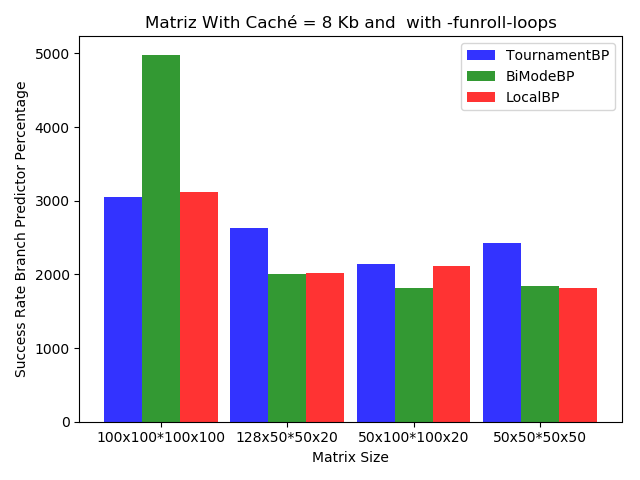
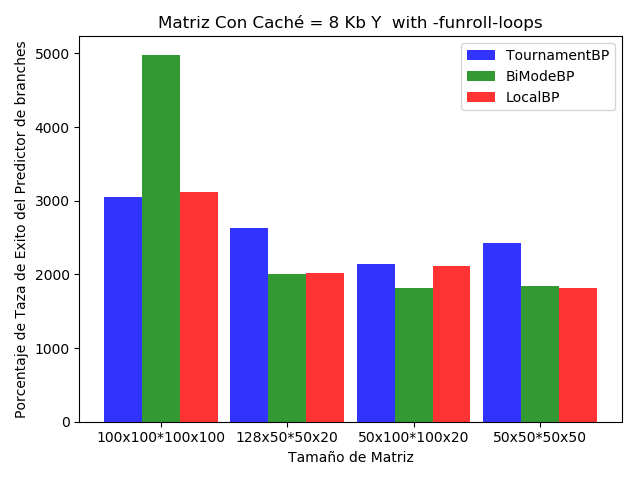
All my graphics added

Changed region(s): [[0.0, 0.0938, 0.0625, 0.875], [0.2188, 0.0312, 0.875, 0.0625], [0.4375, 0.9375, 0.6562, 0.9688]]

diff --git a/gem5_analyser.py b/gem5_analyser.py
@@ -8,7 +8,8 @@ import numpy as np
 rootdir = 'output_final' # estas son 100x100, 50x50, 50x100*100x20, 128x50*50x20.
 allowed_stats = ['sim_ticks', 'system.cpu.ipc',
                     'system.cpu.branchPred.condPredicted', 
-                    'system.cpu.branchPred.condIncorrect']
+                    'system.cpu.branchPred.condIncorrect',
+                    'system.mem_ctrls.pageHitRate']
 MATRIX_BASELINE = [128, 50, 20]
 BP_BASELINE = 'TournamentBP'
 CACHE_SIZE_BASELINE = 8192
@@ -126,9 +127,9 @@ def plotBranchMiss(dataset, LOOP_UNROLLING, I, J, K, file):
                     color='r',
                     label='LocalBP')
 
-    loop = ' with -funroll-loops' if LOOP_UNROLLING else ' no optimization'
-    plt.xlabel('Cache Size(Kb)')
-    plt.ylabel('Success Rate Branch Predictor Percentage')
+    loop = ' con -funroll-loops' if LOOP_UNROLLING else ' no optimization'
+    plt.xlabel('Tamaño Caché (Kb)')
+    plt.ylabel('Porcentaje de Taza de Exito del Predictor de branches')
     plt.title('Matriz '+str(I)+'x'+str(J)+'*'+str(J)+'x'+str(K)+ loop)
     plt.xticks(index + bar_width, cachesizes)
     plt.legend()
@@ -170,15 +171,188 @@ def plotBranchMissMatrix(dataset, CACHE_SIZE, LOOP_UNROLLING, file):
                     label='LocalBP')
 
     loop = ' with -funroll-loops' if LOOP_UNROLLING else ' no optimization'
-    plt.xlabel('Matrix Size')
-    plt.ylabel('Success Rate Branch Predictor Percentage')
-    plt.title('Matriz '+ 'With Caché = 8 Kb'+ ' and '+ loop)
+    plt.xlabel('Tamaño de Matriz')
+    plt.ylabel('Porcentaje de Taza de Exito del Predictor de branches')
+    plt.title('Matriz '+ 'Con Caché = 8 Kb'+ ' Y '+ loop)
     plt.xticks(index + bar_width, matrixsizes)
     plt.legend()
     
     plt.tight_layout()
     plt.savefig(file)
 
+def plotCacheHit(dataset, LOOP_UNROLLING, I, J, K, file):
+    # data to plot
+    miss_rate = {'LocalBP':{},'BiModeBP':{},'TournamentBP':{}}
+    miss_rate_list = {'LocalBP':[],'BiModeBP':[],'TournamentBP':[]}
+    cachesizes = []
+    #Populate Data
+    for data in dataset:
+        if (data['M_I'] == I and data['M_J'] == J and data['M_K'] == K and data['LOOP_UNROLLING'] == LOOP_UNROLLING):
+            #miss = int(data['stats']['system.cpu.branchPred.condPredicted'])/int(data['stats']['system.cpu.branchPred.condIncorrect']) * 100
+            miss = float(data['stats']['system.mem_ctrls.pageHitRate'])
+            miss_rate[data['BP']][float(data['CacheSize'])/1024] = miss
+    cachesizes, miss_rate_list = dictToList (miss_rate, miss_rate_list)
+    # create plot
+    fig, ax = plt.subplots()
+    index = np.arange(len(cachesizes))
+    bar_width = 0.3
+    opacity = 0.8
+    
+    rects1 = plt.bar(index, miss_rate_list['TournamentBP'], bar_width,
+                    alpha=opacity,
+                    color='b',
+                    label='TournamentBP')
+    
+    rects2 = plt.bar(index + bar_width, miss_rate_list['BiModeBP'], bar_width,
+                    alpha=opacity,
+                    color='g',
+                    label='BiModeBP')
+    rects3 = plt.bar(index + bar_width*2, miss_rate_list['LocalBP'], bar_width,
+                    alpha=opacity,
+                    color='r',
+                    label='LocalBP')
+    loop = ' con -funroll-loops' if LOOP_UNROLLING else ' no optimization'
+    #ax.set_yscale("log")
+    plt.xlabel('Tamaño Caché (Kb)')
+    plt.ylabel('Taza de Hit de Caché')
+    plt.title('Matriz '+str(I)+'x'+str(J)+'*'+str(J)+'x'+str(K)+ loop)
+    plt.xticks(index + bar_width, cachesizes)
+    plt.legend(loc = 'center')
+    #leg = plt.legend( loc = 'upper right')
+    plt.tight_layout()
+    plt.savefig(file)
+
+def plotCacheHit_log(dataset, LOOP_UNROLLING, I, J, K, file):
+    # data to plot
+    miss_rate = {'LocalBP':{},'BiModeBP':{},'TournamentBP':{}}
+    miss_rate_list = {'LocalBP':[],'BiModeBP':[],'TournamentBP':[]}
+    cachesizes = []
+    #Populate Data
+    for data in dataset:
+        if (data['M_I'] == I and data['M_J'] == J and data['M_K'] == K and data['LOOP_UNROLLING'] == LOOP_UNROLLING):
+            #miss = int(data['stats']['system.cpu.branchPred.condPredicted'])/int(data['stats']['system.cpu.branchPred.condIncorrect']) * 100
+            miss = float(data['stats']['system.mem_ctrls.pageHitRate'])
+            miss_rate[data['BP']][float(data['CacheSize'])/1024] = miss
+    cachesizes, miss_rate_list = dictToList (miss_rate, miss_rate_list)
+    # create plot
+    fig, ax = plt.subplots()
+    index = np.arange(len(cachesizes))
+    bar_width = 0.3
+    opacity = 0.8
+    
+    rects1 = plt.bar(index, miss_rate_list['TournamentBP'], bar_width,
+                    alpha=opacity,
+                    color='b',
+                    label='TournamentBP')
+    
+    rects2 = plt.bar(index + bar_width, miss_rate_list['BiModeBP'], bar_width,
+                    alpha=opacity,
+                    color='g',
+                    label='BiModeBP')
+    rects3 = plt.bar(index + bar_width*2, miss_rate_list['LocalBP'], bar_width,
+                    alpha=opacity,
+                    color='r',
+                    label='LocalBP')
+    loop = ' con -funroll-loops' if LOOP_UNROLLING else ' no optimization'
+    ax.set_yscale("log")
+    plt.xlabel('Tamaño Caché (Kb)')
+    plt.ylabel('Logaritmo de Taza de Hit de Caché')
+    plt.title('Matriz '+str(I)+'x'+str(J)+'*'+str(J)+'x'+str(K)+ loop)
+    plt.xticks(index + bar_width, cachesizes)
+    plt.legend()
+    #leg = plt.legend( loc = 'upper right')
+    plt.tight_layout()
+    plt.savefig(file)
+
+def plotCacheHitMatrix_log(dataset, CACHE_SIZE, LOOP_UNROLLING, file):
+    # data to plot
+    miss_rate = {'LocalBP':{},'BiModeBP':{},'TournamentBP':{}}
+    miss_rate_list = {'LocalBP':[],'BiModeBP':[],'TournamentBP':[]}
+    matrixsizes = []
+    #Populate Data
+    for data in dataset:
+        if (int(data['CacheSize']) == CACHE_SIZE and  data['LOOP_UNROLLING'] == LOOP_UNROLLING):
+            matrixsize = str(data['M_I'])+'x'+str(data['M_J'])+'*'+str(data['M_J'])+'x'+str(data['M_K'])
+            miss = float(data['stats']['system.mem_ctrls.pageHitRate'])
+            #miss = int(data['stats']['system.cpu.branchPred.condPredicted'])/int(data['stats']['system.cpu.branchPred.condIncorrect']) * 100
+            miss_rate[data['BP']][matrixsize] = miss
+    matrixsizes, miss_rate_list = dictToList(miss_rate, miss_rate_list)
+    # create plot
+    fig, ax = plt.subplots()
+    index = np.arange(len(matrixsizes))
+    ##leg = plt.legend( loc = 'lower right')
+    bar_width = 0.3
+    opacity = 0.8
+    
+    rects1 = plt.bar(index, miss_rate_list['TournamentBP'], bar_width,
+                    alpha=opacity,
+                    color='b',
+                    label='TournamentBP')
+    
+    rects2 = plt.bar(index + bar_width, miss_rate_list['BiModeBP'], bar_width,
+                    alpha=opacity,
+                    color='g',
+                    label='BiModeBP')
+    rects3 = plt.bar(index + bar_width*2, miss_rate_list['LocalBP'], bar_width,
+                    alpha=opacity,
+                    color='r',
+                    label='LocalBP')
+
+    loop = ' with -funroll-loops' if LOOP_UNROLLING else ' no optimization'
+    ax.set_yscale("log")
+    plt.xlabel('Tamaño de Matriz')
+    plt.ylabel('Logaritmo de Taza de Hit de Caché')
+    plt.title('Matriz '+ 'Con Caché = 8 Kb'+ ' Y '+ loop)
+    plt.xticks(index + bar_width, matrixsizes)
+    plt.legend()
+    
+    plt.tight_layout()
+    plt.savefig(file)
+
+def plotCacheHitMatrix(dataset, CACHE_SIZE, LOOP_UNROLLING, file):
+    # data to plot
+    miss_rate = {'LocalBP':{},'BiModeBP':{},'TournamentBP':{}}
+    miss_rate_list = {'LocalBP':[],'BiModeBP':[],'TournamentBP':[]}
+    matrixsizes = []
+    #Populate Data
+    for data in dataset:
+        if (int(data['CacheSize']) == CACHE_SIZE and  data['LOOP_UNROLLING'] == LOOP_UNROLLING):
+            matrixsize = str(data['M_I'])+'x'+str(data['M_J'])+'*'+str(data['M_J'])+'x'+str(data['M_K'])
+            miss = float(data['stats']['system.mem_ctrls.pageHitRate'])
+            #miss = int(data['stats']['system.cpu.branchPred.condPredicted'])/int(data['stats']['system.cpu.branchPred.condIncorrect']) * 100
+            miss_rate[data['BP']][matrixsize] = miss
+    matrixsizes, miss_rate_list = dictToList(miss_rate, miss_rate_list)
+    # create plot
+    fig, ax = plt.subplots()
+    index = np.arange(len(matrixsizes))
+    ##leg = plt.legend( loc = 'lower right')
+    bar_width = 0.3
+    opacity = 0.8
+    
+    rects1 = plt.bar(index, miss_rate_list['TournamentBP'], bar_width,
+                    alpha=opacity,
+                    color='b',
+                    label='TournamentBP')
+    
+    rects2 = plt.bar(index + bar_width, miss_rate_list['BiModeBP'], bar_width,
+                    alpha=opacity,
+                    color='g',
+                    label='BiModeBP')
+    rects3 = plt.bar(index + bar_width*2, miss_rate_list['LocalBP'], bar_width,
+                    alpha=opacity,
+                    color='r',
+                    label='LocalBP')
+
+    loop = ' with -funroll-loops' if LOOP_UNROLLING else ' no optimization'
+    #ax.set_yscale("log")
+    plt.xlabel('Tamaño de Matriz')
+    plt.ylabel('Taza de Hit de Caché')
+    plt.title('Matriz '+ 'Con Caché = 8 Kb'+ ' Y '+ loop)
+    plt.xticks(index + bar_width, matrixsizes)
+    plt.legend()
+    
+    plt.tight_layout()
+    plt.savefig(file)
 
 def main():
     dirlist = getFolders(rootdir)
@@ -191,12 +365,19 @@ def main():
     ##Print all data
     # for data in dataset:
     #     print(data)
-
+    
+    #IPC measurement
     plotIPC(dataset, BP_BASELINE, LOOP_UNROLLING_BASELINE, MATRIX_BASELINE[0], MATRIX_BASELINE[1], MATRIX_BASELINE[2], 'IPC_loop.png') # tiene que existir el los folder
     plotIPC(dataset, BP_BASELINE, False, MATRIX_BASELINE[0], MATRIX_BASELINE[1], MATRIX_BASELINE[2], 'IPC.png') # tiene que existir el los folder
+    #BranchMiss measurement
     plotBranchMiss(dataset , LOOP_UNROLLING_BASELINE, MATRIX_BASELINE[0], MATRIX_BASELINE[1], MATRIX_BASELINE[2], 'MissBP_loop.png')
     plotBranchMissMatrix(dataset, CACHE_SIZE_BASELINE, LOOP_UNROLLING_BASELINE,'MissBPMatrix_loop.png')
+    #Caché Hit Measurement
+    #-Related to Caché Size
+    plotCacheHit(dataset , LOOP_UNROLLING_BASELINE, MATRIX_BASELINE[0], MATRIX_BASELINE[1], MATRIX_BASELINE[2], 'CacheHitBP_loop.png')
+    plotCacheHit_log(dataset , LOOP_UNROLLING_BASELINE, MATRIX_BASELINE[0], MATRIX_BASELINE[1], MATRIX_BASELINE[2], 'CacheHitBP_log_loop.png')
+    #-Realted to Matrix Size
+    plotCacheHitMatrix(dataset, CACHE_SIZE_BASELINE, LOOP_UNROLLING_BASELINE,'CacheHitBPMatrix_loop.png')
+    plotCacheHitMatrix_log(dataset, CACHE_SIZE_BASELINE, LOOP_UNROLLING_BASELINE,'CacheHitBPMatrix_loop_log.png')
+    
 main()
-
-
-#system.mem_ctrls.pageHitRate
